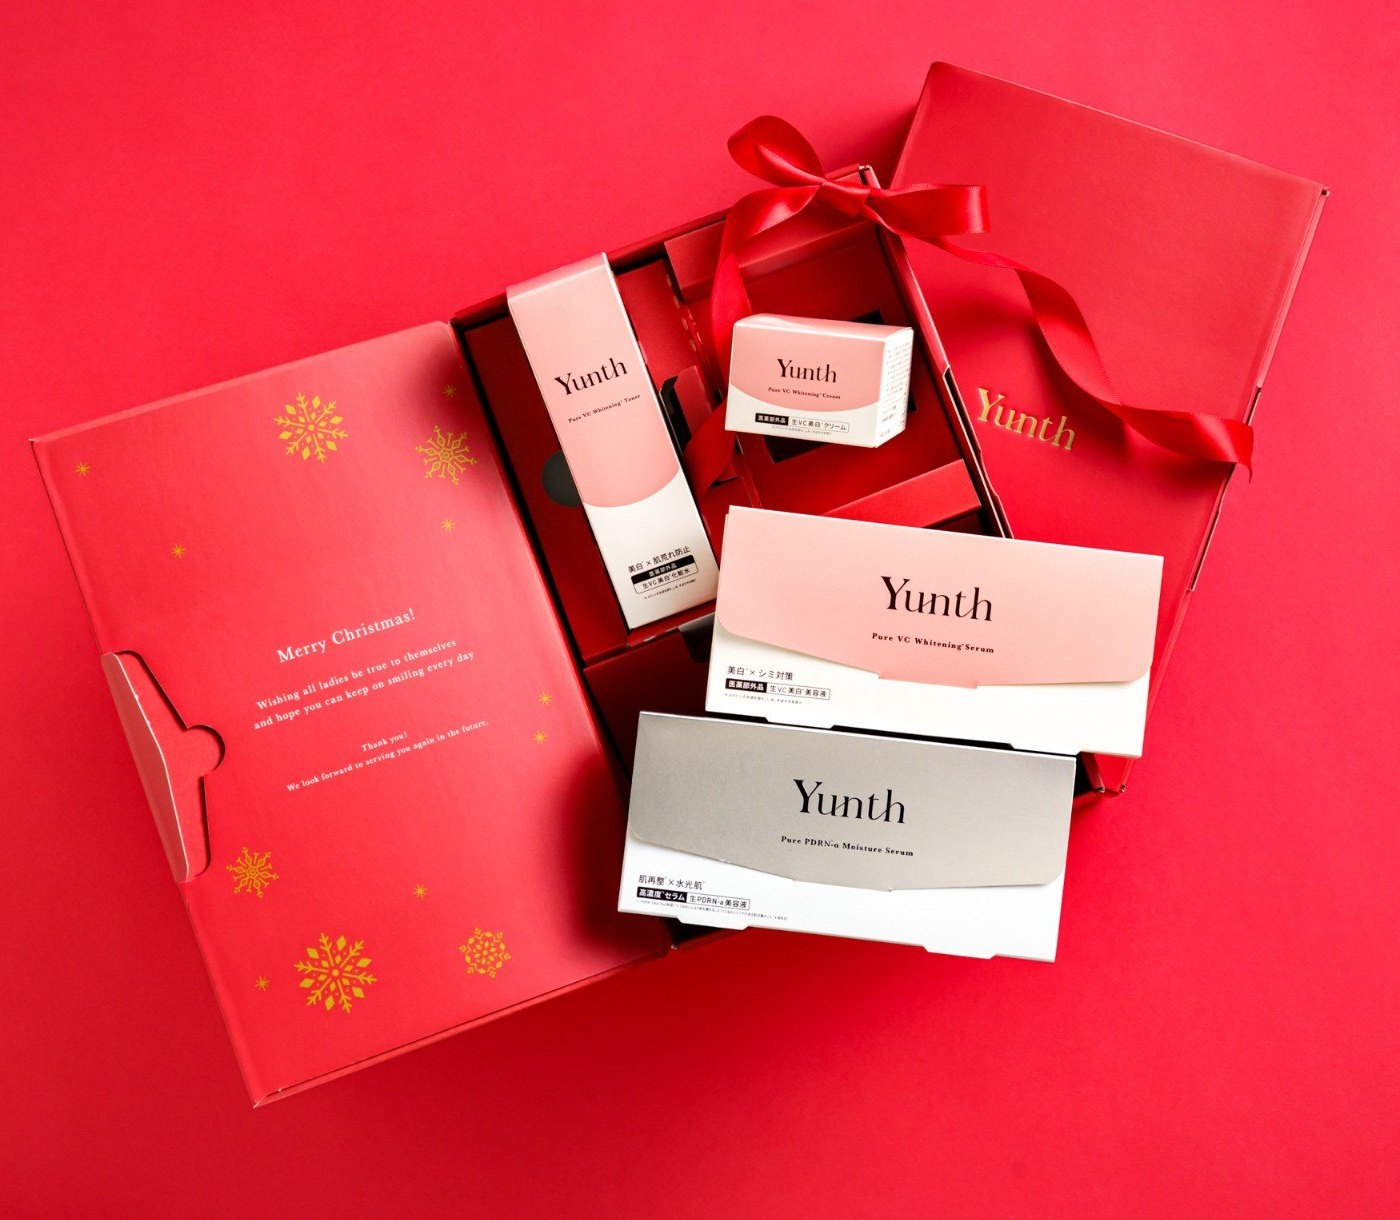
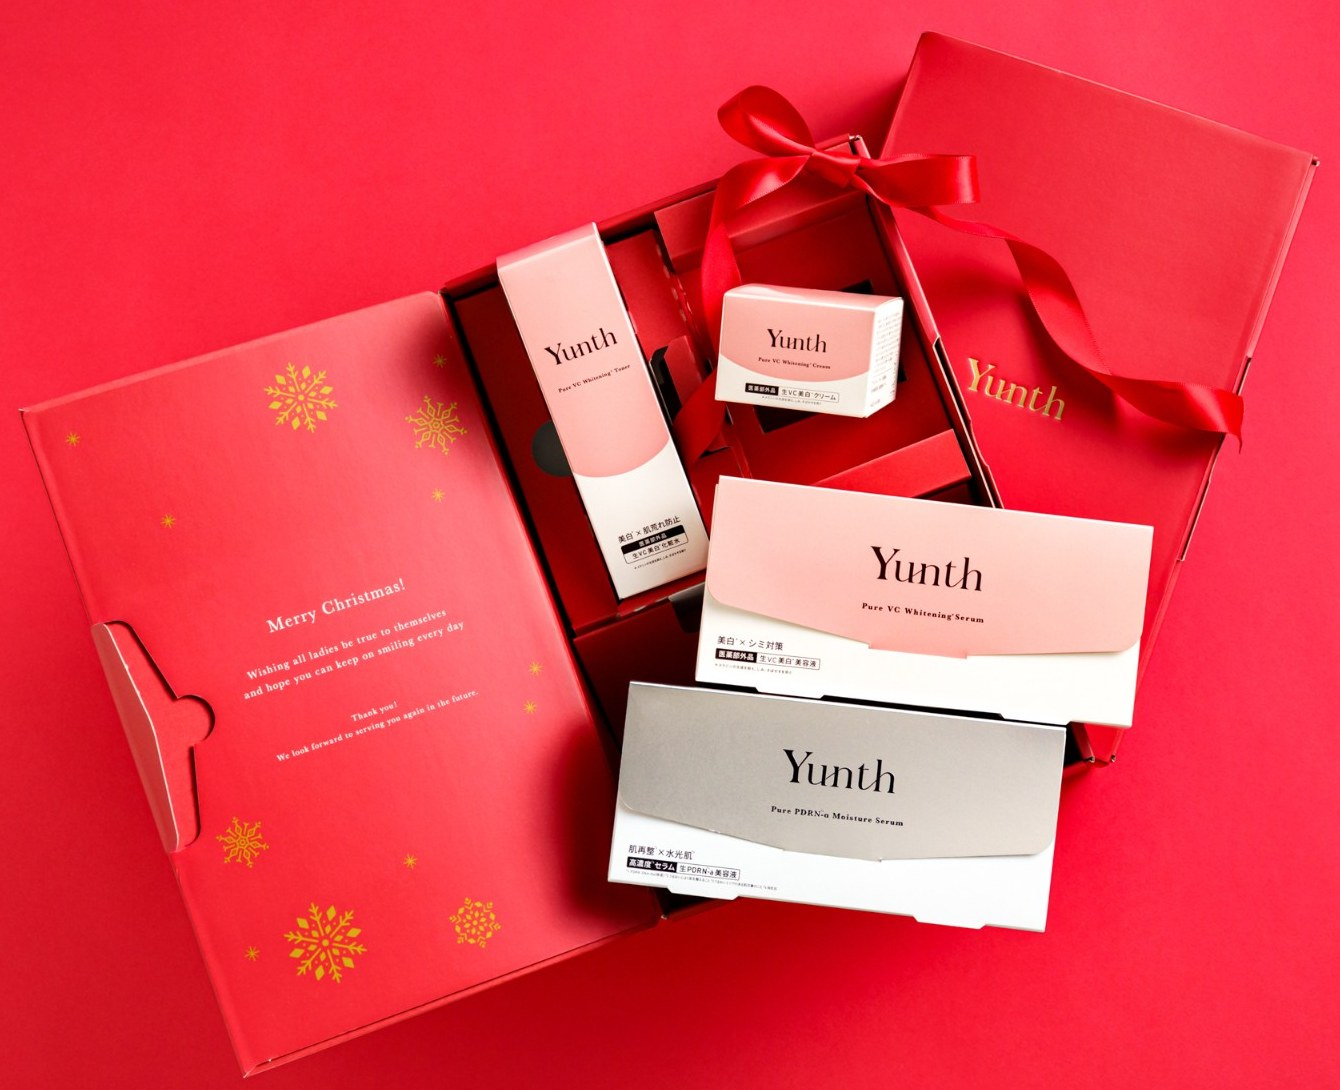
feat: FV写真をアップにして大きく(右側を画面外にはみ出し)

Changed region(s): [[0.0, 0.0312, 0.9791, 0.9982]]

diff --git a/index.html b/index.html
@@ -39,9 +39,9 @@ sup{font-size:clamp(8px,.36em,13px);font-weight:500;vertical-align:super;line-he
 /* ============ FV ============ */
 .fv{position:relative;min-height:100svh;overflow:hidden;background:radial-gradient(ellipse 90% 80% at 55% 50%,#f6304a 0%,#ec2340 45%,#d5112c 80%,#c40a24 100%);color:#fff}
 #snow{position:absolute;inset:0;width:100%;height:100%;pointer-events:none;z-index:3}
-.fv-photo{position:absolute;right:1%;top:50%;transform:translateY(-50%);width:min(50vw,900px,calc(100svh * 1.05));aspect-ratio:1400/1220;z-index:1;
-  -webkit-mask-image:linear-gradient(90deg,transparent 0,#000 12%,#000 92%,transparent),linear-gradient(180deg,transparent 0,#000 10%,#000 90%,transparent);-webkit-mask-composite:source-in;
-  mask-image:linear-gradient(90deg,transparent 0,#000 12%,#000 92%,transparent),linear-gradient(180deg,transparent 0,#000 10%,#000 90%,transparent);mask-composite:intersect}
+.fv-photo{position:absolute;right:-10vw;top:50%;transform:translateY(-50%);width:min(62vw,1100px,calc(100svh * 1.15));aspect-ratio:1340/1090;z-index:1;
+  -webkit-mask-image:linear-gradient(90deg,transparent 0,#000 12%),linear-gradient(180deg,transparent 0,#000 9%,#000 91%,transparent);-webkit-mask-composite:source-in;
+  mask-image:linear-gradient(90deg,transparent 0,#000 12%),linear-gradient(180deg,transparent 0,#000 9%,#000 91%,transparent);mask-composite:intersect}
 .fv-photo img{width:100%;height:100%;object-fit:cover}
 .fv-copy{position:relative;z-index:4;min-height:100svh;display:flex;flex-direction:column;justify-content:center;padding:96px 0 64px;width:min(1240px,100% - 48px);margin-inline:auto}
 .fv-logo{width:170px}
@@ -344,7 +344,7 @@ footer .inner{display:flex;justify-content:space-between;flex-wrap:wrap;gap:12px
 <!-- ============ FV ============ -->
 <header class="fv" id="top">
   <canvas id="snow" aria-hidden="true"></canvas>
-  <div class="fv-photo pc"><img src="images/fv-box.jpg" alt="Yunth スペシャルギフトBOX。赤いボックスにリボンがかかったクリスマス限定BOX" width="1400" height="1220"></div>
+  <div class="fv-photo pc"><img src="images/fv-box.jpg" alt="Yunth スペシャルギフトBOX。赤いボックスにリボンがかかったクリスマス限定BOX" width="1340" height="1090"></div>
   <div class="fv-copy">
     <div><h2 class="logo fv-logo" role="img" aria-label="Yunth"></h2><small>HOLIDAY COLLECTION</small></div>
     <h1 class="fv-title"><span class="l1">Holiday</span><span class="l2">Collection</span><span class="yr">2026</span></h1>
